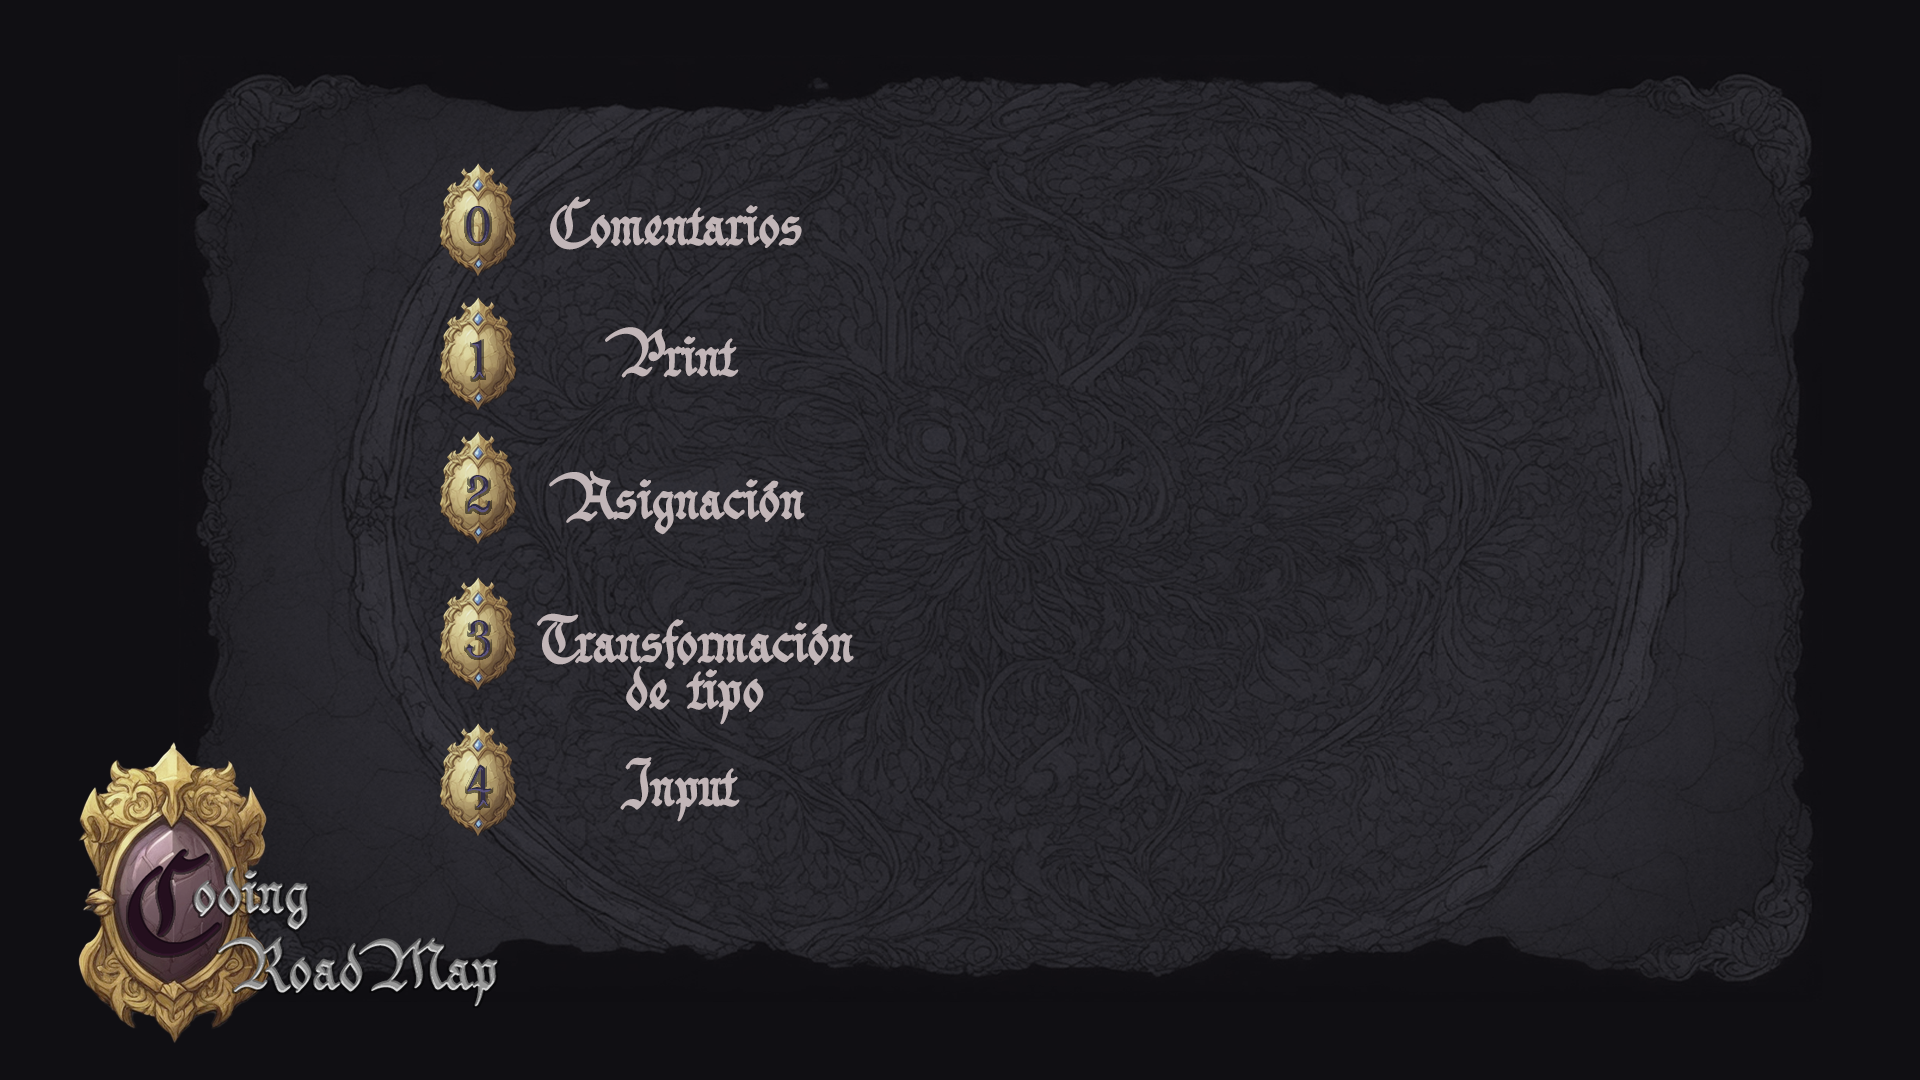
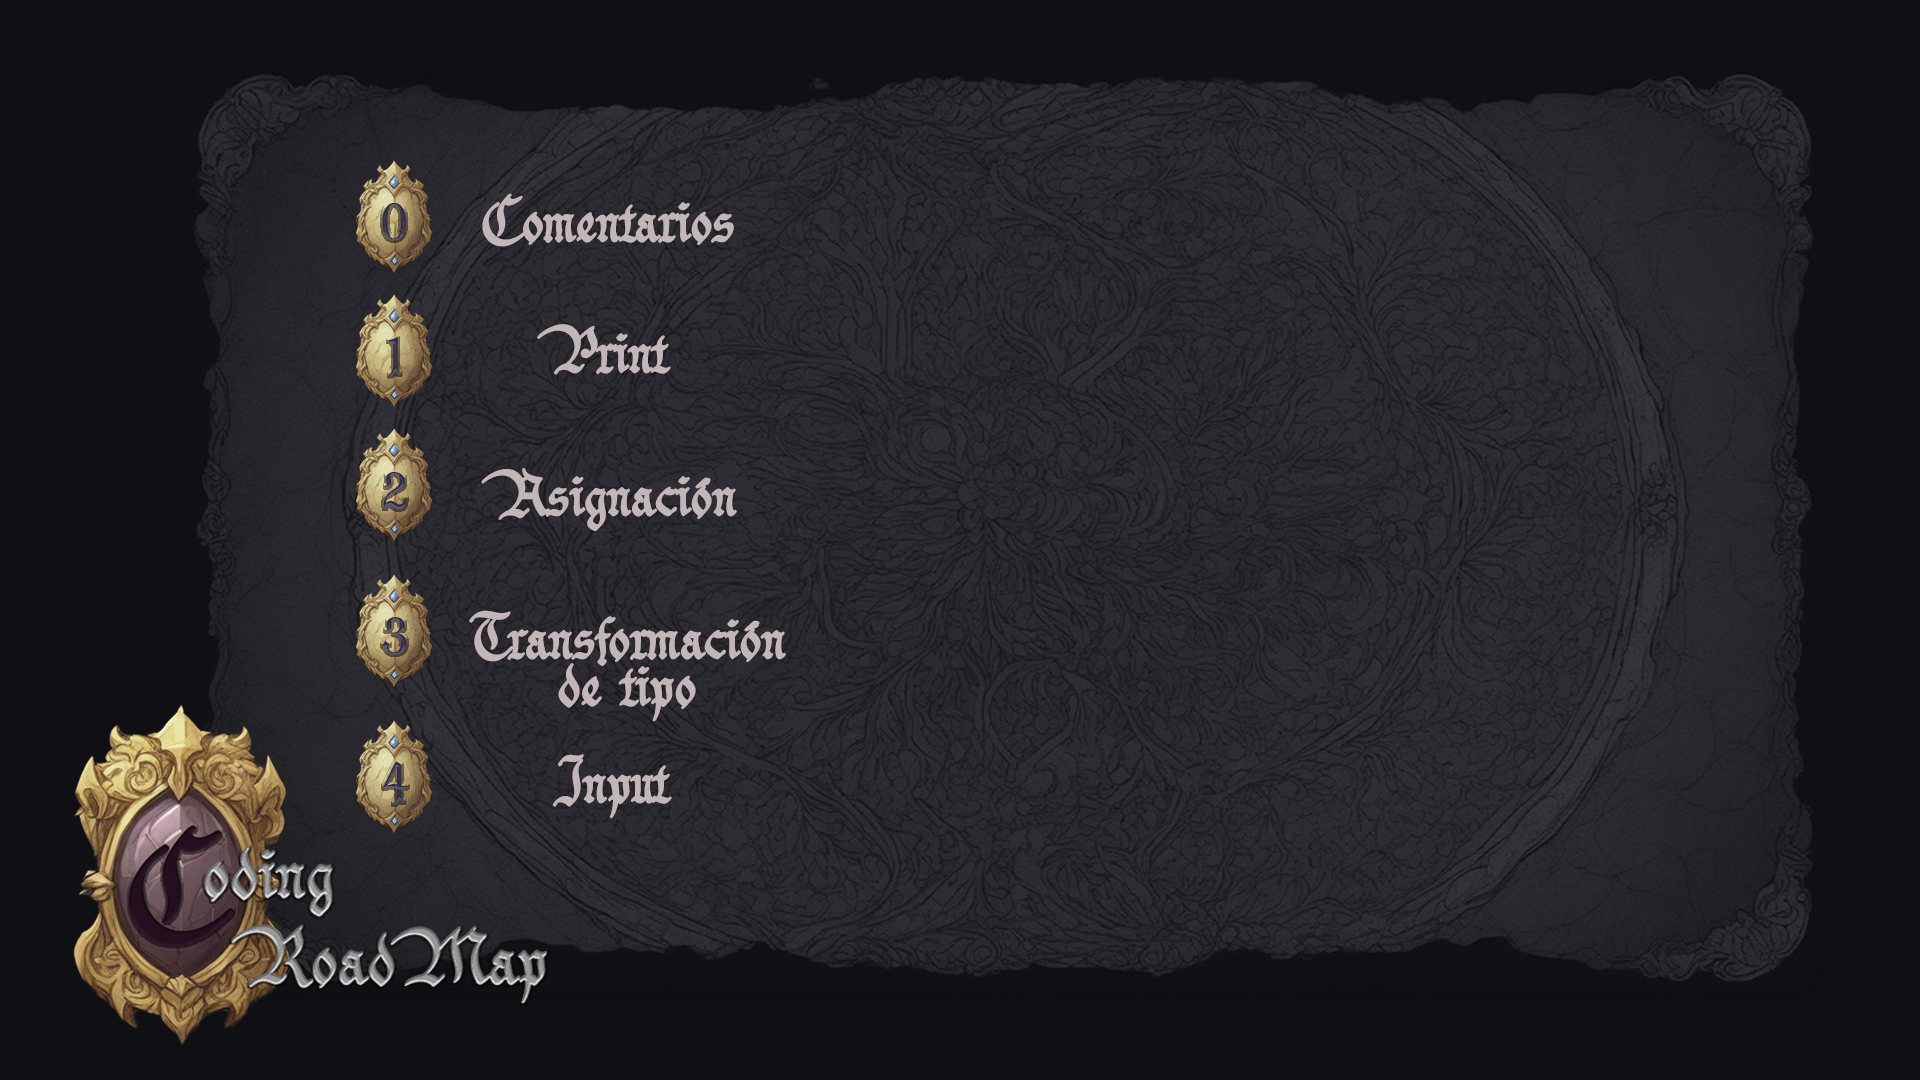
main ui update.

diff --git a/ui/screens/landing_2.py b/ui/screens/landing_2.py
@@ -49,7 +49,7 @@ def draw(frame, change_screen):
                 image_book = image_book.resize((50, 70))
                 image_book_tk = ImageTk.PhotoImage(image_book)
                 setattr(canvas, f"image_book_{row_index}", image_book_tk)
-                canvas.create_image(600, 70 + row_offset, anchor=tk.NW, image=image_book_tk)
+                canvas.create_image(550, 70 + row_offset, anchor=tk.NW, image=image_book_tk)
 
             for i in range(value["total"]):
                 state = "LOCKED" if value["status"] == "LOCKED" else "IN_PROGRESS" if i == value["current"] else "LOCKED" if i > value["current"] else "COMPLETED"
@@ -63,7 +63,7 @@ def draw(frame, change_screen):
                     levels_image_path = resource_path("assets\\images\\levels\\"+str(row_index)+"-passed.png")
 
                 image_level = Image.open(levels_image_path)
-                image_level = image_level.resize((50, 90))
+                image_level = image_level.resize((55, 95))
                 image_level_tk = ImageTk.PhotoImage(image_level)
 
                 def on_image_click(event, screen=screen_to_change):
@@ -77,13 +77,13 @@ def draw(frame, change_screen):
                     canvas.config(cursor="")
 
                 setattr(canvas, f"image_level_tk_{row_index}_{i}", image_level_tk)
-                button = canvas.create_image(630 + column_offset, 70 + row_offset, anchor=tk.NW, image=image_level_tk)
+                button = canvas.create_image(580 + column_offset, 70 + row_offset, anchor=tk.NW, image=image_level_tk)
                 if state != "LOCKED":
                     canvas.tag_bind(button, "<Enter>", on_image_enter)
                     canvas.tag_bind(button, "<Leave>", on_image_leave)
                     canvas.tag_bind(button, '<Button-1>', on_image_click)
 
-                column_offset += 60
+                column_offset += 63
 
             row_offset += 95
         row_index += 1

diff --git a/ui/screens/landing.py b/ui/screens/landing.py
@@ -50,7 +50,7 @@ def draw(frame, change_screen):
                 image_book = image_book.resize((50, 70))
                 image_book_tk = ImageTk.PhotoImage(image_book)
                 setattr(canvas, f"image_book_{row_index}", image_book_tk)
-                canvas.create_image(600, 70 + row_offset, anchor=tk.NW, image=image_book_tk)
+                canvas.create_image(550, 70 + row_offset, anchor=tk.NW, image=image_book_tk)
 
             for i in range(value["total"]):
                 state = "LOCKED" if value["status"] == "LOCKED" else "IN_PROGRESS" if i == value["current"] else "LOCKED" if i > value["current"] else "COMPLETED"
@@ -64,7 +64,7 @@ def draw(frame, change_screen):
                     levels_image_path = resource_path("assets\\images\\levels\\"+str(row_index)+"-passed.png")
 
                 image_level = Image.open(levels_image_path)
-                image_level = image_level.resize((50, 90))
+                image_level = image_level.resize((55, 95))
                 image_level_tk = ImageTk.PhotoImage(image_level)
 
                 def on_image_click(event, screen=screen_to_change):
@@ -78,13 +78,13 @@ def draw(frame, change_screen):
                     canvas.config(cursor="")
 
                 setattr(canvas, f"image_level_tk_{row_index}_{i}", image_level_tk)
-                button = canvas.create_image(630 + column_offset, 70 + row_offset, anchor=tk.NW, image=image_level_tk)
+                button = canvas.create_image(580 + column_offset, 70 + row_offset, anchor=tk.NW, image=image_level_tk)
                 if state != "LOCKED":
                     canvas.tag_bind(button, "<Enter>", on_image_enter)
                     canvas.tag_bind(button, "<Leave>", on_image_leave)
                     canvas.tag_bind(button, '<Button-1>', on_image_click)
 
-                column_offset += 60
+                column_offset += 63
 
         row_offset += 95
         row_index += 1
